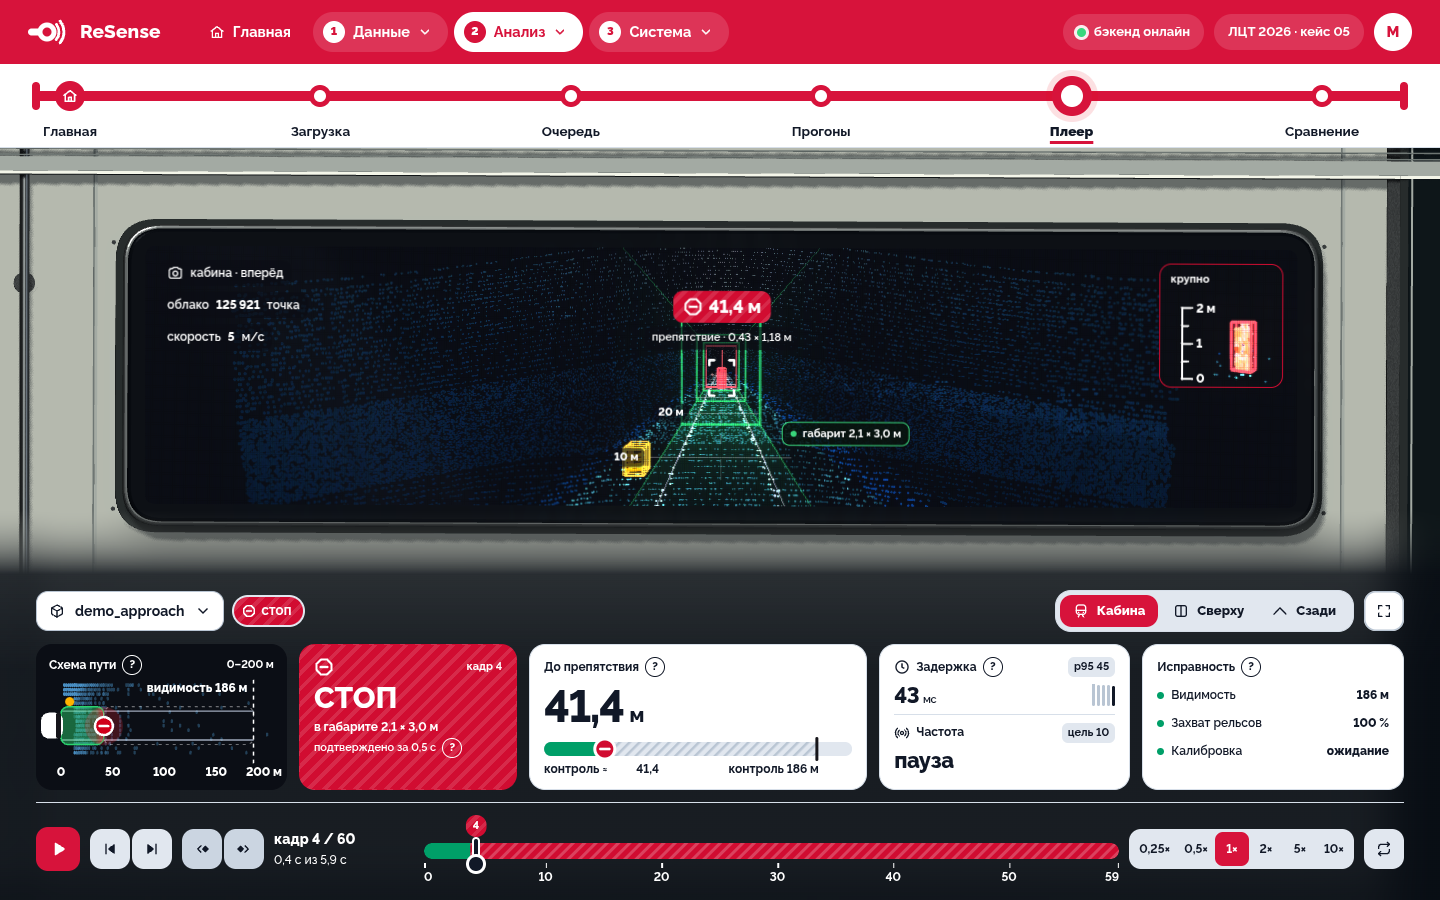
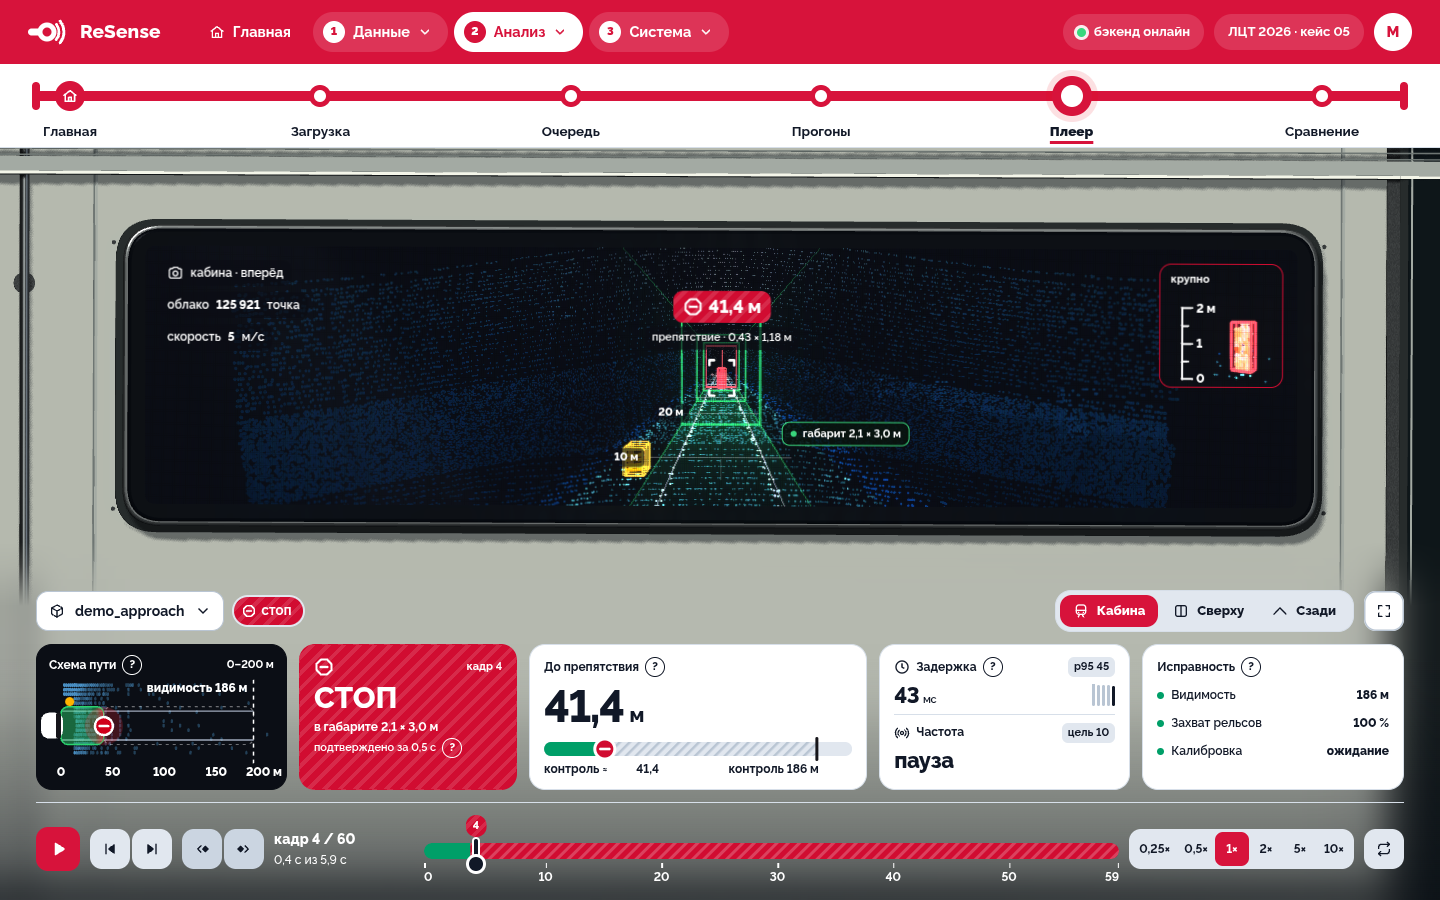
Soften the Player dock fade and move its black stop out of view

Changed region(s): [[0.0, 0.5911, 1.0, 1.0]]

diff --git a/webapp/frontend/src/pages/Player/Player.module.css b/webapp/frontend/src/pages/Player/Player.module.css
@@ -5,11 +5,16 @@
 .sceneLayer { position: absolute; top: 0; left: 0; width: 100%; height: calc(100dvh - var(--site-chrome-h, 148px)); pointer-events: auto; background: #abb3b1; }
 .controlDock { position: relative; isolation: isolate; z-index: 2; display: flex; flex-direction: column; gap: 12px; margin-top: auto; padding: 16px var(--pad) 24px; color: var(--white); --strip-axis-ink: var(--white); }
 .controlDock::before {
-  content: ''; position: absolute; inset: -64px 0 0; z-index: -1; pointer-events: none;
-  background: linear-gradient(to bottom, rgba(7, 12, 19, 0), rgba(7, 12, 19, .38) 32px, rgba(7, 12, 19, .8) 64px, rgba(7, 12, 19, .9) 160px);
+  content: ''; position: absolute; inset: 0; z-index: -1; pointer-events: none;
+  background: linear-gradient(to bottom, rgba(7, 12, 19, 0) 64px, rgba(7, 12, 19, .06) 120px, rgba(7, 12, 19, .24) 200px, rgba(7, 12, 19, .56) 100%, rgba(7, 12, 19, .98) calc(100% + 240px));
+  mask-image: linear-gradient(to bottom, transparent, rgba(0, 0, 0, .45) 80px, #000 160px);
+  -webkit-mask-image: linear-gradient(to bottom, transparent, rgba(0, 0, 0, .45) 80px, #000 160px);
+}
+.controlDock::after {
+  content: ''; position: absolute; inset: -32px 0 0; z-index: -2; pointer-events: none;
   backdrop-filter: blur(18px) saturate(.85); -webkit-backdrop-filter: blur(18px) saturate(.85);
-  mask-image: linear-gradient(to bottom, transparent, #000 64px);
-  -webkit-mask-image: linear-gradient(to bottom, transparent, #000 64px);
+  mask-image: linear-gradient(to bottom, transparent, rgba(0, 0, 0, .25) 24px, #000 64px);
+  -webkit-mask-image: linear-gradient(to bottom, transparent, rgba(0, 0, 0, .25) 24px, #000 64px);
 }
 .display {
   position: relative;
@@ -63,7 +68,7 @@
 .cameraModes > button[aria-checked='true'] { background: var(--red); color: var(--white); }
 .toolButton, .pbtn, .sbtn { border-radius: var(--r-xs); }
 .viewTools { display: flex; align-items: center; gap: 10px; margin-left: auto; min-width: 0; }
-.viewReason { font-size: 12px; font-weight: 600; }
+.viewReason { color: var(--ink); font-size: 12px; font-weight: 600; }
 .menuWrap { position: relative; min-width: 0; }
 .nameBtn { display: flex; align-items: center; gap: 10px; height: 40px; max-width: min(360px, 75vw); padding: 0 12px; border: 1px solid var(--hair-2); border-radius: var(--r-xs); background: var(--card); color: var(--ink); font-weight: 700; }
 .nameBtn:hover { border-color: var(--red); background: var(--well-3); }
@@ -156,7 +161,7 @@
 .pickName { overflow: hidden; text-overflow: ellipsis; white-space: nowrap; font-size: 16px; font-weight: 800; }
 .pickMeta { margin-right: auto; font-size: 12px; }
 .pickPlay { display: grid; place-items: center; width: 36px; height: 36px; border-radius: var(--r-xs); background: var(--red); color: var(--white); flex: none; }
-.tKeys { padding: 12px 0; min-height: 0; border: 0; border-radius: 0; background: transparent; color: inherit; }
+.tKeys { padding: 12px 0; min-height: 0; border: 0; border-radius: 0; background: transparent; color: var(--ink); }
 .keys { display: flex; flex-wrap: wrap; gap: 12px 24px; margin-top: 12px; }
 .key { display: inline-flex; align-items: center; gap: 8px; font-size: 12px; }
 .key kbd { padding: 4px 8px; border: 1px solid var(--hair-2); border-radius: 6px; font-family: var(--f-body); font-weight: 700; background: var(--card); color: var(--ink); }

diff --git a/webapp/e2e/test_player.py b/webapp/e2e/test_player.py
@@ -609,6 +609,6 @@ def test_pointer_pressure_parallax_and_reduced_motion(app, seeded):
     page.wait_for_timeout(350)
     assert canvas.evaluate('el => Math.abs(+el.dataset.sceneTiltX) + Math.abs(+el.dataset.sceneTiltY)') < .00002
     dock = page.locator('[data-player-controls]')
-    assert 'blur' in dock.evaluate('el => getComputedStyle(el,"::before").backdropFilter')
+    assert dock.evaluate('el => ["::before", "::after"].some(p => getComputedStyle(el, p).backdropFilter.includes("blur"))')
     assert 'gradient' in dock.evaluate('el => getComputedStyle(el,"::before").maskImage')
     assert real_errors(app.errors) == []

diff --git a/DESIGN.md b/DESIGN.md
@@ -171,7 +171,7 @@ The display height responds to available viewport height (`clamp(280px, calc(100
 
 The full train canvas spans the Player viewport below the measured chrome (`100dvh - --site-chrome-h`). A zero-height sticky scene anchor (top 0) keeps this background visible behind vertically scrolling mobile content. A separately measured DisplayRegion (width/left/height/top) preserves the hardware's original upper composition inside the full canvas; responsive margins reserve wall context around the device without turning application controls into scene geometry.
 
-The native-flow control dock sits above the scene (z-index 2), with shared side padding and top/bottom padding (16px/24px). Its negative top extension (64px), dark translucent gradient, backdrop blur (18px), saturation (0.85) and matching mask feather upward to transparency. Plain supporting text is white; white controls/panels retain their own ink. DecisionStrip tick marks use the dock's white `--strip-axis-ink` override while retaining the shared ink fallback elsewhere.
+The native-flow control dock sits above the scene (z-index 2), with shared side padding and top/bottom padding (16px/24px). Its tint stays fully transparent through the first 64px, leaving the upper controls on the clear wall, then ramps gently with a 160px feather mask. Visible tint opacity stays between zero and 0.56; the near-black gradient stop is positioned 240px beyond the painted bottom edge, without adding scrollable space. A separate backdrop-blur layer (18px, saturation 0.85) starts only 32px above the dock and feathers across 64px, keeping the live display annotations sharp. Upper-row supporting copy and picker keyboard hints use ink on the clear wall; lower transport copy is white over the tint, and white controls/panels retain their own ink. DecisionStrip tick marks use the dock's white `--strip-axis-ink` override while retaining the shared ink fallback elsewhere.
 
 ## Elevation & Depth
 

diff --git a/docs/images/player-workspace/README.md b/docs/images/player-workspace/README.md
@@ -57,8 +57,11 @@ The train backdrop fills the entire Player viewport beneath the shared top bar a
 stage rail. It remains sticky behind vertically scrolling mobile content. The device
 retains its original upper display region, while the wall and railings continue
 behind telemetry and transport. A dark, backdrop-blurred control dock feathers to
-transparent over 64px above the controls; its mask is shared with the blur so there
-is no hard upper edge. Native-size controls stay stationary and usable.
+fully transparent through the upper 64px of the dock, then ramps gently with a 160px
+feather mask. A separate, shorter blur feather stays close to the dock so display annotations remain sharp.
+The visible tint never exceeds 56%; its near-black stop lies 240px past
+the painted bottom edge, so the wall remains visible without extra scroll space.
+There is no hard upper edge. Native-size controls stay stationary and usable.
 
 Pointer-only frames reuse the unchanged LiDAR and emission textures. The existing
 engine draws the physical scene until it settles; selection/error states use a

diff --git a/webapp/frontend/README.md b/webapp/frontend/README.md
@@ -93,4 +93,6 @@ Pages: `/` Overview · `/upload` · `/queue` · `/runs` · `/runs/:id` · `/play
   The default pose is straight; bounded mouse pressure tilts the wall/display group and moves the
   separate foreground railings at 24% strength. The HUD uses the updated affine surface transform.
   Pointer-only renders reuse live image/emission textures, settle to rest, and respect reduced
-  motion and touch. A dark masked backdrop blur beneath native-size controls fades upward over 64px.
+  motion and touch. The control tint is clear through the upper 64px, ramps gently with a 160px
+  feather and is capped at 56%. Its near-black stop stays beyond the painted edge; a separate
+  short blur feather keeps screen labels sharp.
